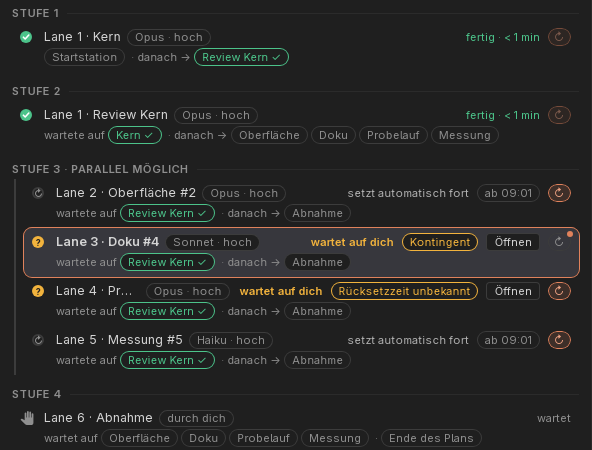
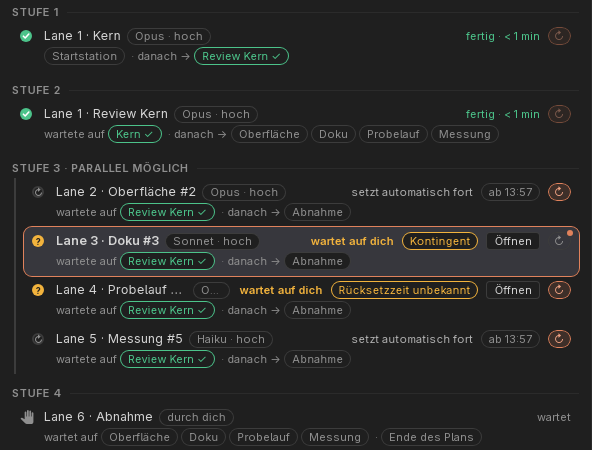
fix(implementation): Stationsname bleibt vor dem Modell-Chip lesbar
In der Zeile kürzt sich das Chip mit Modell und Denkaufwand vor dem
Stationsnamen. Im Mock von Entwurf 1 heißt der Kontingent-Schalter
jetzt „Automatisch fortsetzen“. Zeilen-Bilder neu aufgenommen, README
des Entwurfs mit den gemessenen Breiten der Leiste.

diff --git a/docs/design/2026-11-10_constraint-ablaeufe/mockup.html b/docs/design/2026-11-10_constraint-ablaeufe/mockup.html
@@ -163,7 +163,7 @@
       <li><b>Kanten ändern:</b> „×“, „+ Vorgänger“, „+ Nachfolger“; Zyklen sind gesperrt, gestartete Stationen auch.</li>
       <li><b>Neue Lane:</b> „+ Lane“ in der Leiste. Je Station Typ wählen (der Zweck steht dabei), Prompt, Modell und Denkaufwand einstellen; „durch dich“ ist eine Anweisung für dich. Die Vorschau nennt Stufe und verschobene Stationen.</li>
       <li><b>Plan ändern?</b> „Agent schlägt Plan-Änderung vor“: Typ, Modell, Denkaufwand und Prompt des Vorschlags lassen sich vor „Übernehmen“ ändern.</li>
-      <li><b>Automatik:</b> „Automatisch starten“ (Countdown, bis „Parallel max.“ erreicht ist, dann Warteschlange), „Automatisch weiter“ (nach leerem Kontingent und Fehler; die Leiste schaltet alle Stationen, ↻ in der Zeile nur eine).</li>
+      <li><b>Automatik:</b> „Automatisch starten“ (Countdown, bis „Parallel max.“ erreicht ist, dann Warteschlange), „Automatisch fortsetzen“ (nach leerem Kontingent und Fehler; die Leiste schaltet alle Stationen, ↻ in der Zeile nur eine).</li>
     </ul>
   </details>
 
@@ -426,7 +426,7 @@
       const e = eff(s);
       meta = '<span class="meta" title="Modell: ' + MODEL_FULL[e.model] + ' (' + e.mSrc + ') · Denkaufwand: ' + ELBL[e.effort] + ' (' + e.eSrc + ')' + (s.snap ? ' – Werte der Session' : '') + '">' + SHORT[e.model] + ' · ' + ELBL[e.effort] + '</span>';
       sw = '<button class="sw' + (s.autoResume ? ' on' : '') + '" data-act="row-resume" data-id="' + s.id + '" aria-pressed="' + s.autoResume + '"' + (s.st === 'done' ? ' disabled' : '') +
-        ' title="Automatisch weiter: setzt nach leerem Kontingent und nach einem Fehler selbst fort. Ein Klick schaltet nur diese Station.">↻</button>';
+        ' title="Automatisch fortsetzen: setzt nach leerem Kontingent und nach einem Fehler selbst fort. Ein Klick schaltet nur diese Station.">↻</button>';
       if (s.st === 'pending' && s.autoStart === 'off' && auto) manual = '<span class="chip" title="Startet nie von selbst, auch mit „Automatisch starten“">⏸ manuell</span>';
       if (s.st === 'pending' && s.autoStart === 'on' && !auto) manual = '<span class="chip" title="Startet von selbst, obwohl „Automatisch starten“ aus ist">▶ automatisch</span>';
     }
@@ -519,7 +519,7 @@
       ? '<div class="hint">Eine Station durch dich startet nie von selbst: sie wartet auf dich, sobald ihre Vorgänger fertig sind.</div>'
       : '<div class="ln"><span class="lbl">Automatisch starten</span>' + seg('set', id + ' data-f="autoStart"', s.autoStart, [['inherit', 'wie Umsetzung (' + (auto ? 'an' : 'aus') + ')'], ['on', 'an'], ['off', 'aus']], !pending) + '</div>' +
         '<div class="hint">Startet die Station nach ihren Vorgängern von selbst (Countdown) oder erst auf ▶. Jetzt: ' + (effStart ? 'von selbst' : 'auf ▶') + '.</div>' +
-        '<div class="ln"><span class="lbl">Automatisch weiter</span><label><input type="checkbox" data-f="autoResume" ' + id + (s.autoResume ? ' checked' : '') + (done ? ' disabled' : '') + '> nach leerem Kontingent selbst fortsetzen</label></div>' +
+        '<div class="ln"><span class="lbl">Automatisch fortsetzen</span><label><input type="checkbox" data-f="autoResume" ' + id + (s.autoResume ? ' checked' : '') + (done ? ' disabled' : '') + '> nach leerem Kontingent selbst fortsetzen</label></div>' +
         '<div class="ln"><span class="lbl">Bei Fehler</span>' + seg('set', id + ' data-f="onError"', s.onError, [['stop', 'anhalten'], ['retry1', '1× neu starten'], ['retry3', 'bis 3× neu starten']], done) + '</div>' +
         '<div class="hint">Gilt bis die Station fertig ist; auch während sie läuft.</div>';
 
@@ -581,13 +581,13 @@
       '<span class="name">Konstellation</span>' +
       '<span><span class="fill" style="display:inline-block;vertical-align:middle"><i style="width:' + (total ? (100 * done / total) : 0) + '%"></i></span> ' + done + ' von ' + total + ' fertig' + (done === total ? ' · Umsetzung fertig' : '') + '</span>' +
       '<label title="Startet jede Station, deren Vorgänger fertig sind, nach dem Countdown von selbst. Einzelne Stationen können abweichen."><input type="checkbox" id="auto"' + (auto ? ' checked' : '') + '> Automatisch starten</label>' +
-      '<label title="Setzt jede Station nach leerem Kontingent und nach einem Fehler selbst fort. Schaltet alle Stationen; einzelne können danach abweichen (letzte Aktion gewinnt)."><input type="checkbox" id="resume"' + (resumeAll ? ' checked' : '') + '> Automatisch weiter</label>' +
+      '<label title="Setzt jede Station nach leerem Kontingent und nach einem Fehler selbst fort. Schaltet alle Stationen; einzelne können danach abweichen (letzte Aktion gewinnt)."><input type="checkbox" id="resume"' + (resumeAll ? ' checked' : '') + '> Automatisch fortsetzen</label>' +
       '<label title="Höchstens so viele Stationen laufen gleichzeitig. Weitere bereite Stationen starten selbst, sobald ein Platz frei wird – nur bei Stationen, die automatisch starten. Ein Klick auf ▶ ignoriert die Grenze.">Parallel max. ' +
         '<span class="step"><button data-act="par-down" aria-label="weniger"' + (maxPar <= 1 ? ' disabled' : '') + '>−</button><b id="par">' + maxPar + '</b><button data-act="par-up" aria-label="mehr"' + (maxPar >= 6 ? ' disabled' : '') + '>+</button></span></label>' +
       (waiting().length ? '<span class="ready">Warteschlange: ' + waiting().length + '</span>' : '') +
       '<span class="sp"></span><button class="mini" data-act="np-open" title="Neue Lane mit Stationen und Constraints anlegen">+ Lane</button><button class="mini" disabled title="Lagebericht: unverändert wie heute">Lagebericht</button>';
     $('#body').innerHTML = (proposal ? proposalHtml() : '') + rows +
-      '<div class="legend"><span><i class="dot done"></i>fertig</span><span><i class="dot run"></i>läuft</span><span><i class="dot ready"></i>bereit / Countdown</span><span><i class="dot wait"></i>wartet</span><span>' + HAND + 'durch dich</span><span><i class="dot ask"></i>Frage</span><span><i class="dot err"></i>Fehler</span><span><b class="meta" style="margin:0">Opus · hoch</b>Modell · Denkaufwand</span><span><b class="sw on" style="margin:0;display:inline-block">↻</b>Automatisch weiter</span></div>' +
+      '<div class="legend"><span><i class="dot done"></i>fertig</span><span><i class="dot run"></i>läuft</span><span><i class="dot ready"></i>bereit / Countdown</span><span><i class="dot wait"></i>wartet</span><span>' + HAND + 'durch dich</span><span><i class="dot ask"></i>Frage</span><span><i class="dot err"></i>Fehler</span><span><b class="meta" style="margin:0">Opus · hoch</b>Modell · Denkaufwand</span><span><b class="sw on" style="margin:0;display:inline-block">↻</b>Automatisch fortsetzen</span></div>' +
       (log.length ? '<div class="log"><h4>Änderungen am Plan und Meldungen</h4>' + log.slice(0, 6).map((l) => '<div>' + l + '</div>').join('') + '</div>' : '');
     renderSim();
     timers();
@@ -784,7 +784,7 @@
     if (t.id === 'resume') {
       resumeAll = t.checked;
       st.forEach((s) => { if (s.st !== 'done') s.autoResume = resumeAll; });
-      note('„Automatisch weiter“ für alle Stationen ' + (resumeAll ? 'an' : 'aus') + ' (einzelne Stationen können danach abweichen).');
+      note('„Automatisch fortsetzen“ für alle Stationen ' + (resumeAll ? 'an' : 'aus') + ' (einzelne Stationen können danach abweichen).');
       render(true); return;
     }
     if (t.dataset.f === 'autoResume') { setField(t.dataset.id, 'autoResume', t.checked); render(true); }

diff --git a/src/features/implementation/Timeline.css b/src/features/implementation/Timeline.css
@@ -92,6 +92,15 @@
     white-space: nowrap;
   }
 
+  /* Modell und Denkaufwand kürzen sich vor dem Stationsnamen, damit er neben Zustand, Chips und ↻
+     lesbar bleibt. */
+  &__meta {
+    flex-shrink: 1000;
+    min-width: 3em;
+    overflow: hidden;
+    text-overflow: ellipsis;
+  }
+
   &__new {
     border-color: var(--color-accent);
     color: var(--color-accent-text);

diff --git a/docs/design/2026-11-15_automatisch-fortsetzen/README.md b/docs/design/2026-11-15_automatisch-fortsetzen/README.md
@@ -44,8 +44,8 @@
 
 Stand der Oberfläche (Phase 56.2). Die Bilder in [umsetzung/](umsetzung/) stammen aus der echten App: eigener Ordner als `HOME`, privates Display, eine Attrappe der Claude-Kommandozeile mit den Fällen `quota` und `quota-ohne-zeit`; jedes ist gegen den Mock (`#scen=qon|qoff|qmix`, hell und dunkel) verglichen. Die Klicks (↻ in der Zeile, Wahl in der Kartei, Schalter in Leiste, Warnleiste, Karte im Chat und Einstellungen) liefen dort über XTest.
 
-- **Leiste:** Dort stehen nur ↻ und der Schalter; der Name „Automatisch fortsetzen“ ist Tooltip und Name für Screenreader. Mit dem ganzen Namen (wie im Mock) brach die Leiste schon bei 1440 Pixel Fensterbreite in zwei Zeilen um. Dazu ist der Fortschrittsbalken nicht mehr fest 160 Pixel breit: er wächst bis 160 Pixel, bricht aber erst unter 60 Pixel um. So bleibt die Leiste überall einzeilig, wo sie es vorher war (gemessen mit dem CSS der App von 300 bis 1300 Pixel Hauptfläche). Einzige Ausnahme ist die schmale Fassung unter 700 Pixel: bei 515 bis 575 Pixel Hauptfläche bekommt sie eine Zeile mehr, weil der Fortschrittsbalken dort schon auf seiner Mindestbreite steht. Mit „Warteschlange: N“ war die Leiste bei 1440 Pixel Fensterbreite schon vorher zweizeilig. In der Warnleiste steht der ganze Name.
-- **Zeile:** ↻ steht rechts im Zustand, neben der Mini-Aktion („Öffnen“, ▶), nicht hinter Modell und Denkaufwand: dort liegt der Titel-Knopf, und ein Knopf darf nicht in einem Knopf stehen. Mit „wartet auf dich“, dem Chip „Rücksetzzeit unbekannt“ und „Öffnen“ wird der Titel bei 1440 Pixel Fensterbreite gekürzt („Lane 4 · Pr…“).
+- **Leiste:** Dort stehen nur ↻ und der Schalter; der Name „Automatisch fortsetzen“ ist Tooltip und Name für Screenreader. Dazu ist der Fortschrittsbalken nicht mehr fest 160 Pixel breit: er wächst bis 160 Pixel, bricht aber erst unter 60 Pixel um. Gemessen mit dem aufgelösten CSS der App in Chromium (Hauptfläche 300 bis 1600 Pixel, ohne „Warteschlange“) ist die Leiste einzeilig ab 1100 Pixel Hauptfläche ohne den Schalter, ab 1305 Pixel mit dem ganzen Namen (wie im Mock) und ab 1065 Pixel jetzt. In der App ist sie bei 1440 Pixel Fensterbreite (1184 Pixel Hauptfläche) einzeilig, siehe die Bilder. Einzige Ausnahme ist die schmale Fassung unter 700 Pixel: bei 515 bis 575 Pixel Hauptfläche bekommt sie eine Zeile mehr, weil der Fortschrittsbalken dort schon auf seiner Mindestbreite steht. Mit „Warteschlange: N“ war die Leiste bei 1440 Pixel Fensterbreite schon vorher zweizeilig. In der Warnleiste steht der ganze Name.
+- **Zeile:** ↻ steht rechts im Zustand, neben der Mini-Aktion („Öffnen“, ▶), nicht hinter Modell und Denkaufwand: dort liegt der Titel-Knopf, und ein Knopf darf nicht in einem Knopf stehen. Wird es eng (etwa mit „wartet auf dich“, dem Chip „Rücksetzzeit unbekannt“ und „Öffnen“ bei 1440 Pixel Fensterbreite), kürzt sich zuerst das Chip mit Modell und Denkaufwand („O…“), dann der Titel: der Stationsname bleibt lesbar („Lane 4 · Probelauf …“, nur die Sessionnummer fällt weg).
 - **Zustand nach dem Zurücksetzen:** Der Mock zählt „setzt fort in N s“ herunter. Die App hat diesen Zustand nicht, der Zeitgeber lebt im Kern: Die Station bleibt bis zum Senden bei „setzt automatisch fort“ mit dem Chip der Rücksetzzeit, danach läuft sie.
 - **Warnleiste:** „Kontingent zurückgesetzt.“ erscheint erst, wenn jede bekannte Rücksetzzeit vorbei ist. Zwei Stationen, die zehn Sekunden auseinander ins Kontingent liefen, zeigen bis zur späteren Zeit noch „aufgebraucht“. Der Mock kennt nur eine Zeit. Die genannte Uhrzeit ist die früheste noch kommende; ist die Zeit einer fortsetzenden Station schon vorbei, die einer anderen aber nicht, heißt es „… setzen gleich fort“. Nach dem Fortsetzen bleibt die Leiste mit „… warten noch auf dich“ stehen, solange eine Station am Kontingent pausiert.
 - **Plätze:** In der App rückt eine bereite Station nach, sobald Stationen mit Schalter aus oder ohne Rücksetzzeit „wartet auf dich“ zeigen. Im Lauf „gemischt“ startete so „Messung“, die im Mock in der Warteschlange bleibt; im Mock warten in diesem Szenario drei Stationen automatisch.
